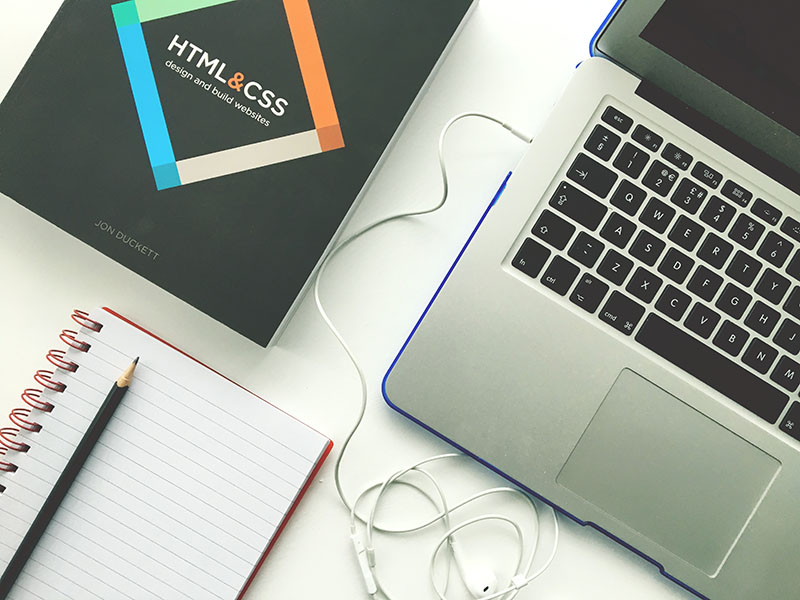
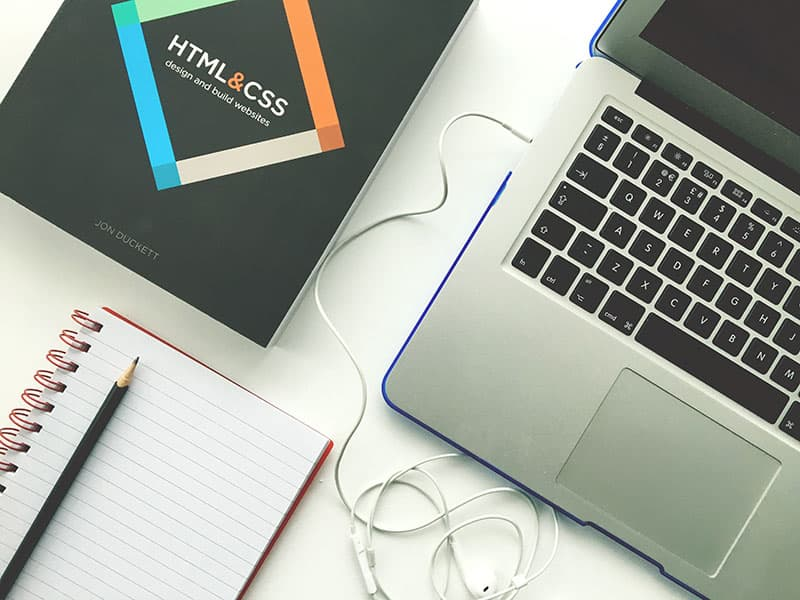
basic assets oprimisations

diff --git a/src/sections/Main/Main.module.scss b/src/sections/Main/Main.module.scss
@@ -5,7 +5,7 @@
   align-items: center;
   flex-direction: column;
   height: 100vh;
-  background-image: url("/img/background.png");
+  background: #1e2633 url("/img/background.jpg");
   background-size: cover;
   color: $akai-white;
   text-align: center;
@@ -17,8 +17,8 @@
   max-width: 1100px;
   display: flex;
   align-items: flex-start;
-  img {	
-    width: 40px;	
+  img {
+    width: 40px;
   }
 }
 
